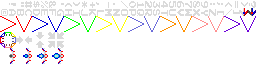
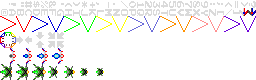
Bullet cleanup, code update, adding invader shell code.

Changed region(s): [[0.0, 0.0312, 1.0, 1.0], [0.375, 0.8438, 0.4062, 0.9688]]

diff --git a/src/background.c b/src/background.c
@@ -50,36 +50,36 @@ void DrawBG(Color color) {
 
     switch(color) {
         case blue:
-            mapPtrLeft = &mapBGBlueLeft;
-            mapPtrRight = &mapBGBlueRight;
+            mapPtrLeft = mapBGBlueLeft;
+            mapPtrRight = mapBGBlueRight;
             break;
         case green:
-            mapPtrLeft = &mapBGGreenLeft;
-            mapPtrRight = &mapBGGreenRight;
+            mapPtrLeft = mapBGGreenLeft;
+            mapPtrRight = mapBGGreenRight;
             break;
         case yellow:
-            mapPtrLeft = &mapBGYellowLeft;
-            mapPtrRight = &mapBGYellowRight;
+            mapPtrLeft = mapBGYellowLeft;
+            mapPtrRight = mapBGYellowRight;
             break;
         case lavendar:
-            mapPtrLeft = &mapBGLavendarLeft;
-            mapPtrRight = &mapBGLavendarRight;
+            mapPtrLeft = mapBGLavendarLeft;
+            mapPtrRight = mapBGLavendarRight;
             break;
         case orange:
-            mapPtrLeft = &mapBGOrangeLeft;
-            mapPtrRight = &mapBGOrangeRight;
+            mapPtrLeft = mapBGOrangeLeft;
+            mapPtrRight = mapBGOrangeRight;
             break;
         case pink:
-            mapPtrLeft = &mapBGPinkLeft;
-            mapPtrRight = &mapBGPinkRight;
+            mapPtrLeft = mapBGPinkLeft;
+            mapPtrRight = mapBGPinkRight;
             break;
         case violet:
-            mapPtrLeft = &mapBGVioletLeft;
-            mapPtrRight = &mapBGVioletRight;
+            mapPtrLeft = mapBGVioletLeft;
+            mapPtrRight = mapBGVioletRight;
             break;
         default:
-            mapPtrLeft = &mapBGRedLeft;
-            mapPtrRight = &mapBGRedRight;
+            mapPtrLeft = mapBGRedLeft;
+            mapPtrRight = mapBGRedRight;
     }
 
     DrawArrow(color);
@@ -184,28 +184,28 @@ void DrawBGShort(Color color, u8 dirLeft) {
 
     switch(color) {
         case blue:
-            mapPtr = dirLeft ? &mapBGBlueLeftShort : &mapBGBlueRightShort;
+            mapPtr = dirLeft ? mapBGBlueLeftShort : mapBGBlueRightShort;
             break;
         case green:
-            mapPtr = dirLeft ? &mapBGGreenLeftShort : &mapBGGreenRightShort;
+            mapPtr = dirLeft ? mapBGGreenLeftShort : mapBGGreenRightShort;
             break;
         case yellow:
-            mapPtr = dirLeft ? &mapBGYellowLeftShort : &mapBGYellowRightShort;
+            mapPtr = dirLeft ? mapBGYellowLeftShort : mapBGYellowRightShort;
             break;
         case lavendar:
-            mapPtr = dirLeft ? &mapBGLavendarLeftShort : &mapBGLavendarRightShort;
+            mapPtr = dirLeft ? mapBGLavendarLeftShort : mapBGLavendarRightShort;
             break;
         case orange:
-            mapPtr = dirLeft ? &mapBGOrangeLeftShort : &mapBGOrangeRightShort;
+            mapPtr = dirLeft ? mapBGOrangeLeftShort : mapBGOrangeRightShort;
             break;
         case pink:
-            mapPtr = dirLeft ? &mapBGPinkLeftShort : &mapBGPinkRightShort;
+            mapPtr = dirLeft ? mapBGPinkLeftShort : mapBGPinkRightShort;
             break;
         case violet:
-            mapPtr = dirLeft ? &mapBGVioletLeftShort : &mapBGVioletRightShort;
+            mapPtr = dirLeft ? mapBGVioletLeftShort : mapBGVioletRightShort;
             break;
         default:
-            mapPtr = dirLeft ? &mapBGRedLeftShort : &mapBGRedRightShort;
+            mapPtr = dirLeft ? mapBGRedLeftShort : mapBGRedRightShort;
     }
 
     if(dirLeft) {
@@ -232,28 +232,28 @@ void DrawBGLong(Color color, u8 dirLeft) {
 
     switch(color) {
         case blue:
-            mapPtr = dirLeft ? &mapBGBlueLeft : &mapBGBlueRight;
+            mapPtr = dirLeft ? mapBGBlueLeft : mapBGBlueRight;
             break;
         case green:
-            mapPtr = dirLeft ? &mapBGGreenLeft : &mapBGGreenRight;
+            mapPtr = dirLeft ? mapBGGreenLeft : mapBGGreenRight;
             break;
         case yellow:
-            mapPtr = dirLeft ? &mapBGYellowLeft : &mapBGYellowRight;
+            mapPtr = dirLeft ? mapBGYellowLeft : mapBGYellowRight;
             break;
         case lavendar:
-            mapPtr = dirLeft ? &mapBGLavendarLeft : &mapBGLavendarRight;
+            mapPtr = dirLeft ? mapBGLavendarLeft : mapBGLavendarRight;
             break;
         case orange:
-            mapPtr = dirLeft ? &mapBGOrangeLeft : &mapBGOrangeRight;
+            mapPtr = dirLeft ? mapBGOrangeLeft : mapBGOrangeRight;
             break;
         case pink:
-            mapPtr = dirLeft ? &mapBGPinkLeft : &mapBGPinkRight;
+            mapPtr = dirLeft ? mapBGPinkLeft : mapBGPinkRight;
             break;
         case violet:
-            mapPtr = dirLeft ? &mapBGVioletLeft : &mapBGVioletRight;
+            mapPtr = dirLeft ? mapBGVioletLeft : mapBGVioletRight;
             break;
         default:
-            mapPtr = dirLeft ? &mapBGRedLeft : &mapBGRedRight;
+            mapPtr = dirLeft ? mapBGRedLeft : mapBGRedRight;
     }
 
     while(i++ < 8) {

diff --git a/src/bullet.c b/src/bullet.c
@@ -37,7 +37,16 @@ void PlayerBulletUpdate(PlayerBullet *bullet) {
     u8 remap = 0;
     if(!bullet->active) return;
 
-    bullet->x += 4;
+    switch(bullet->distance) {
+        case 0:
+            bullet->x += 4;
+            break;
+        case 1:
+            bullet->x += 3;
+            break;
+        default:
+            bullet->x += 2;
+    }
 
     if(
         bullet->spriteActive
@@ -54,13 +63,13 @@ void PlayerBulletUpdate(PlayerBullet *bullet) {
         && currentColor == bullet->sector
     ) bullet->spriteActive = 1;
 
-    if(bullet->x >= 80 && bullet->distance == 0) {
+    if(bullet->x >= 120 && bullet->distance == 0) {
         bullet->distance = 1;
         remap = 1;
-    } else if(bullet->x >= 140 && bullet->distance == 1) {
+    } else if(bullet->x >= 170 && bullet->distance == 1) {
         bullet->distance = 2;
         remap = 1;
-    } else if(bullet->x >= 180) {
+    } else if(bullet->x >= 188) {
         PlayerBulletDeactivate(bullet);
         return;
     }

diff --git a/src/graphics.h b/src/graphics.h
@@ -74,6 +74,14 @@ extern const char mapHigatanaA[];
 extern const char mapHigatanaB[];
 extern const char mapHigatanaC[];
 
+extern const char mapInvaderANearA[];
+extern const char mapInvaderANearB[];
+extern const char mapInvaderANearC[];
+extern const char mapInvaderAMiddleA[];
+extern const char mapInvaderAMiddleB[];
+extern const char mapInvaderAFarA[];
+extern const char mapInvaderAFarB[];
+
 // Sprite maps
 
 extern const char mapHigatanaBulletA[];

diff --git a/src/invader.h b/src/invader.h
@@ -1,0 +1,24 @@
+#ifndef _INVADER_H
+#define _INVADER_H
+
+#include "defines.h"
+#include "graphics.h"
+#include "gamesys.h"
+
+#define INVADER_COUNT 8
+
+typedef enum {
+    invaderA
+} InvaderType;
+
+typedef struct {
+    u8 x, y, active, animTime, killTime;
+    InvaderType type;
+} Invader;
+
+extern Invader invaders[];
+
+void InvaderInitNext();
+void InvaderUpdate(Invader *);
+
+#endif

diff --git a/src/invader.c b/src/invader.c
@@ -1,0 +1,11 @@
+#include "invader.h"
+
+Invader invaders[INVADER_COUNT];
+
+void InvaderInitNext() {
+
+}
+
+void InvaderUpdate(Invader *invader) {
+
+}
